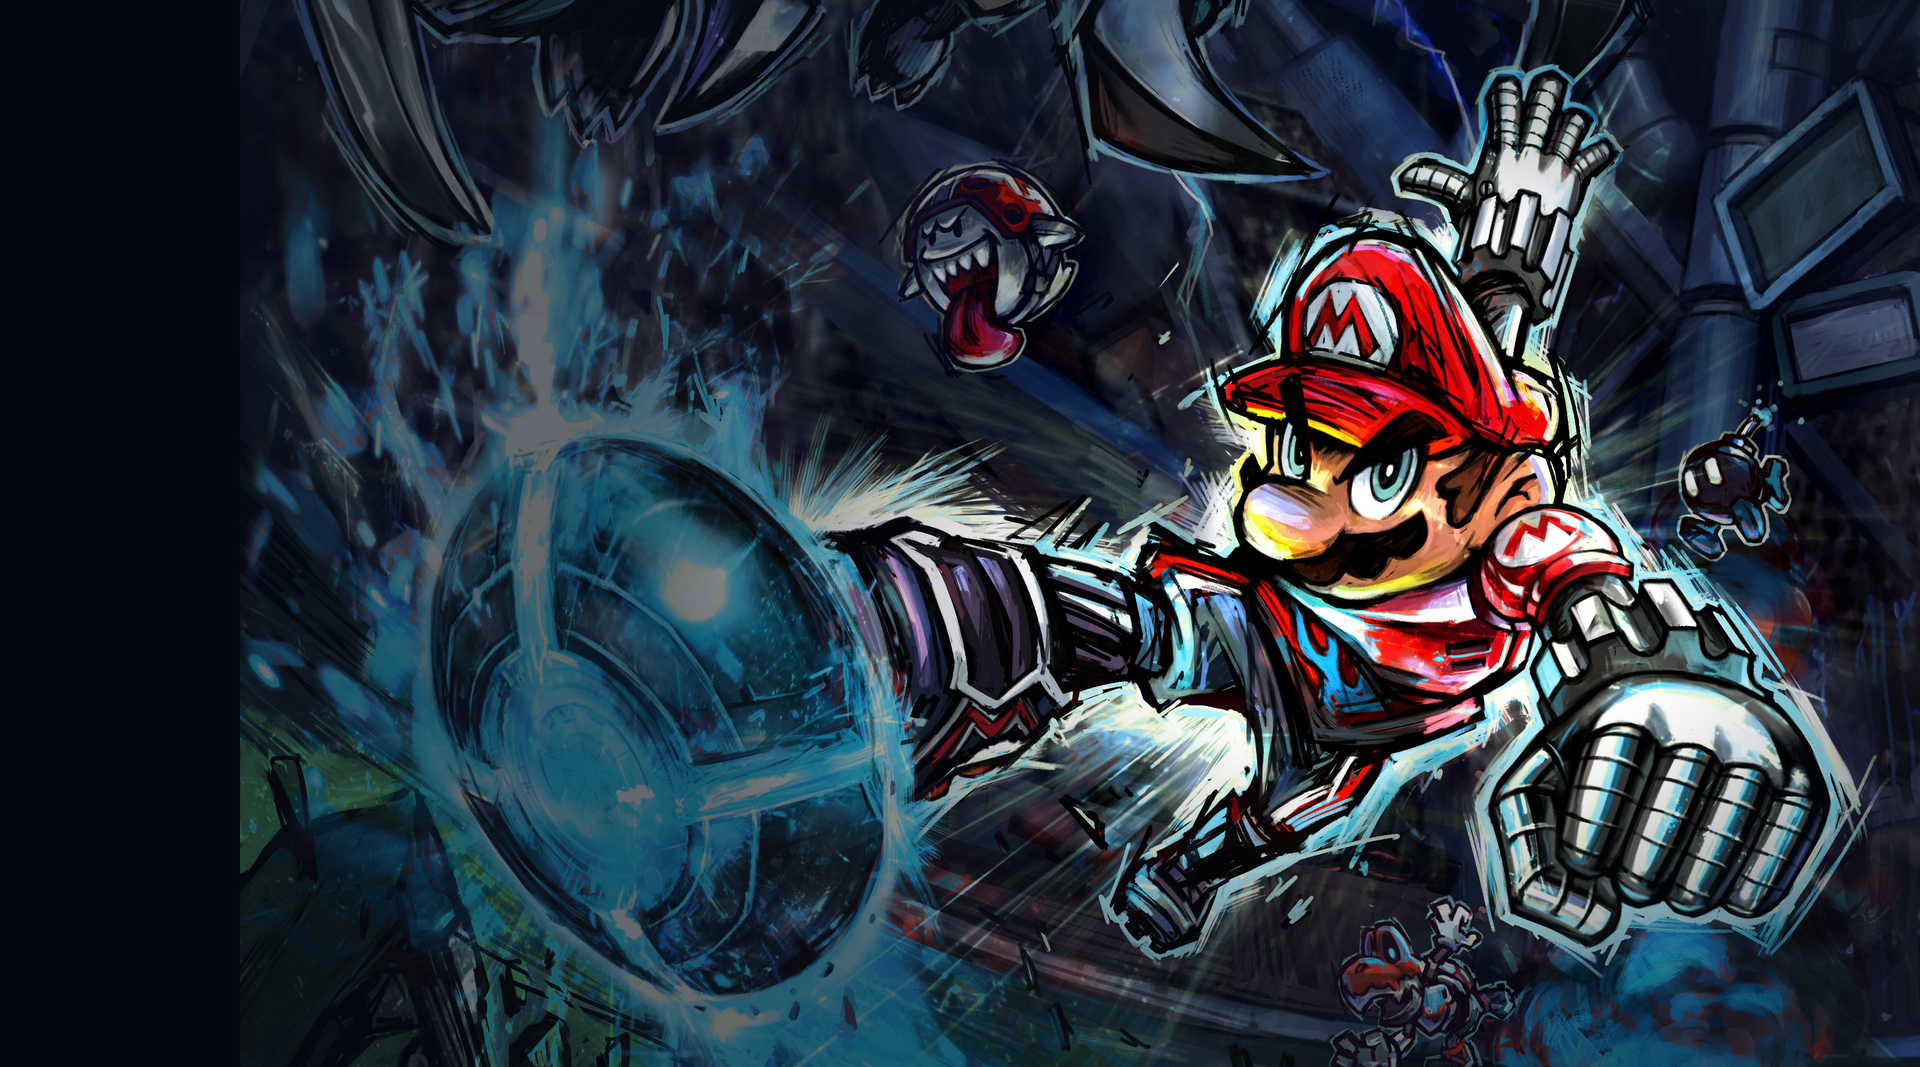
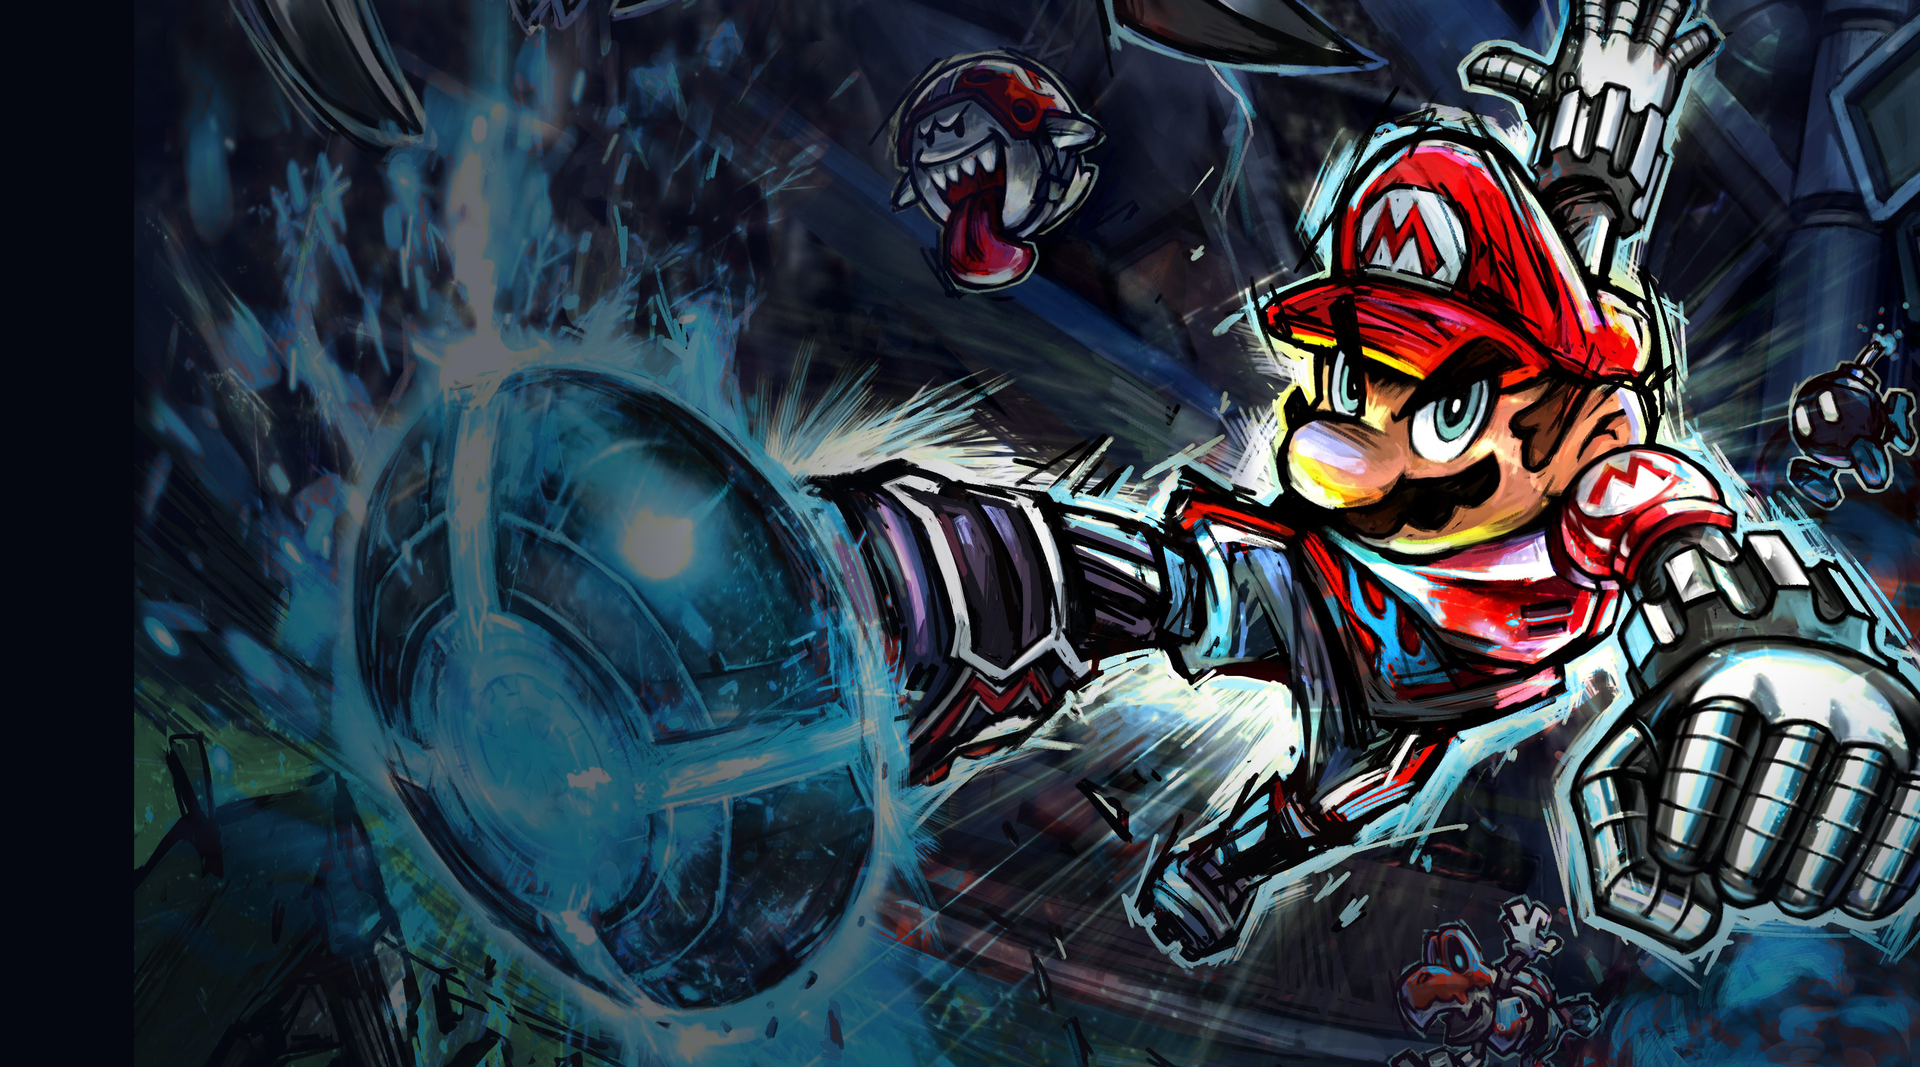
feat(launcher): header closer on Mario, further right and up

diff --git a/tools/launcher_art.py b/tools/launcher_art.py
@@ -58,7 +58,8 @@ def make_header(source):
     image = Image.open(source).convert("RGB")
     if image.size != (3500, 4700):
         raise SystemExit(f"{source}: expected the 3500 x 4700 key art, found {image.width} x {image.height}")
-    left, top, right, bottom = -500, 1900, 3500, 4122  # black beyond the art's left edge
+    # Mario's face (2400, 2860) at 76 % across and 37 % down; black beyond the art's left edge.
+    left, top, right, bottom = -243, 2145, 3235, 4077
     rgb = np.asarray(image.crop((left, top, right, bottom))).astype(np.float32) / 255
     height, width = rgb.shape[:2]
     ys, xs = np.mgrid[0:height, 0:width].astype(np.float32)
